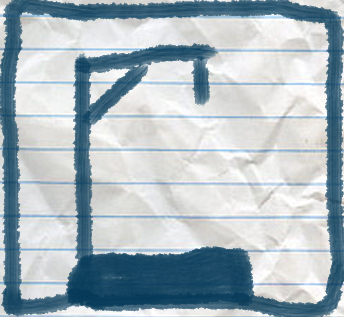
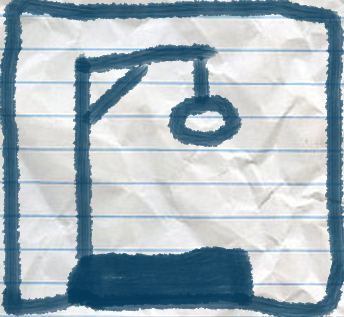
Fixed visuals
the hangman now indicates lives

Changed region(s): [[0.4651, 0.2839, 0.7267, 0.4826]]

diff --git a/www/hangman.html b/www/hangman.html
@@ -10,7 +10,10 @@
 </head>
 
 <body>
-<img id="hangmanImage" src="Images/hangmanLives0.jpg">
+<img id="hangmanImage" src="Images/hangmanLives10.jpg">
+<script>
+
+</script>
 
 <div id="text"><p> > </p><p id="display"></p></div>
 <script>
